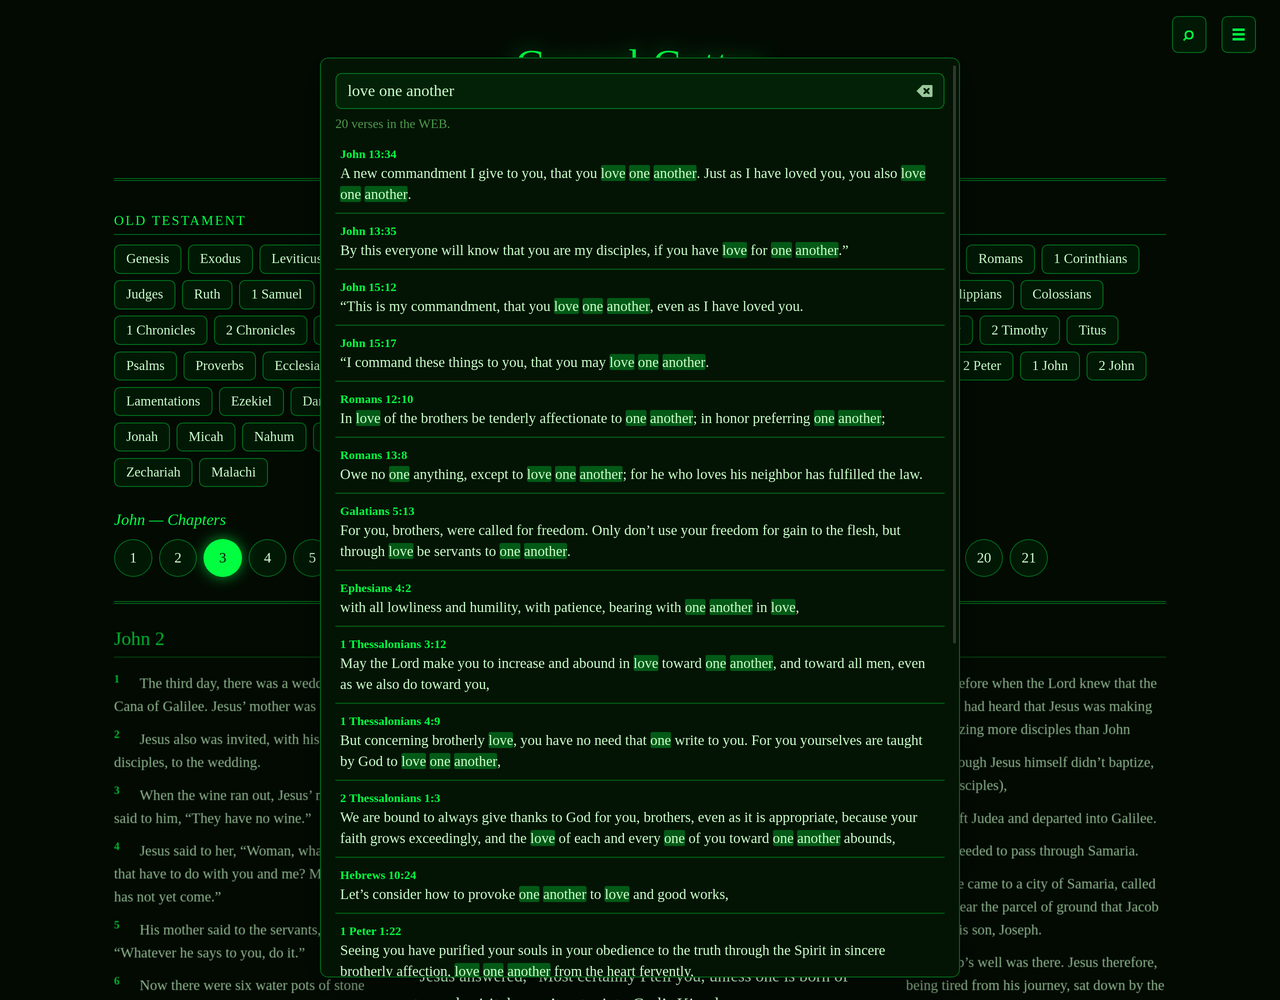
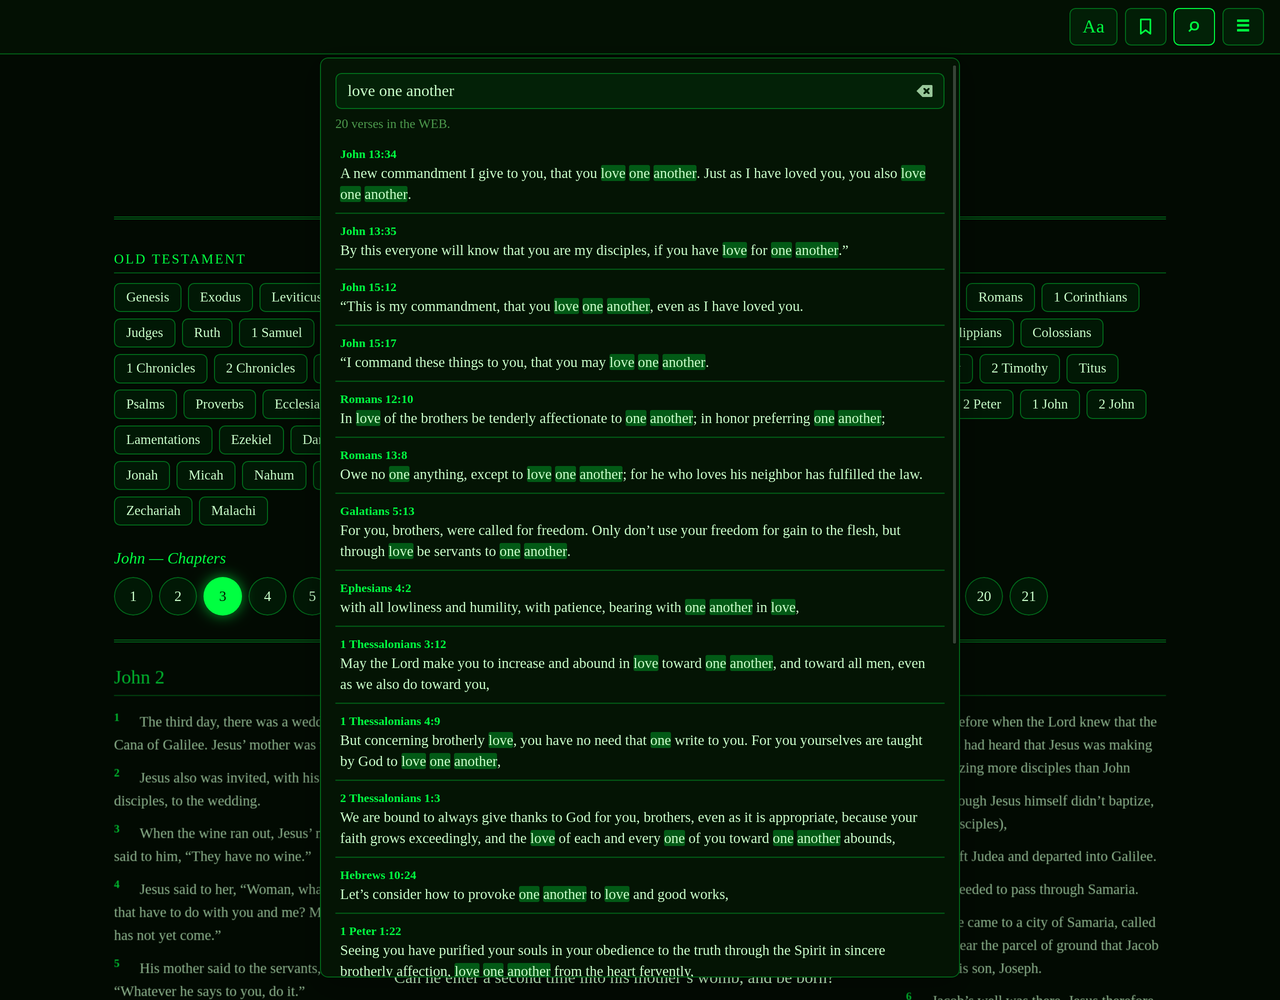
chore(release): bump version to 2.7.0 (#38)
Cargo.toml, Cargo.lock, tauri.conf.json and PKGBUILD pkgver: 2.6.0 -> 2.7.0 (pkgrel stays 1; PKGBUILD remains a draft, not AUR-published). The website shows version 2.7.0 and now says where things live in the new layout: the Highlights list and bookmarks are in the Library, themes, sizes and reading mode are under Aa, and its "Does it update itself?" answer turns the check off in About Gospel Getter from the ☰ menu, says plainly that versions 2.5 and older can't update themselves, and points Export data… to the ☰ menu; "Which version is this?" finds the version in About. The README does the same: the Library (with Ctrl+B) for bookmarks and highlights, Aa for theme, translation, text size, spacing and reading mode, the ☰ menu for Export/Import and Show welcome, About for Updates and the version, a bullet for the new layout, Ctrl+B in the keyboard table and Esc closing the open panel or popover, and in Updates that 2.6.0 updates itself to 2.7.0 while 2.5.0 and older install 2.7.0 by hand once. The site and README screenshots are recaptured from the real UI with the new top bar, at their old sizes and file names; README's bookmarks.png now shows the Library open on Bookmarks, with new alt text. capture_screenshots.py scrolls its targets relative to the top bar so nothing starts under it, and build_images.sh crops the theme tiles below it. The welcome is unchanged: nothing it says became untrue.

diff --git a/site/index.html b/site/index.html
@@ -60,7 +60,7 @@
                         <a class="button button-primary" href="#download-windows">Download for Windows</a>
                         <a class="button button-secondary" href="#download-linux">Download for Linux</a>
                     </div>
-                    <p class="hero-note">Version 2.6.0, for 64-bit Windows and Linux computers. The Windows installer isn’t code-signed yet, so Windows will probably warn you before it runs. <a href="#faq-smartscreen">What to expect</a>.</p>
+                    <p class="hero-note">Version 2.7.0, for 64-bit Windows and Linux computers. The Windows installer isn’t code-signed yet, so Windows will probably warn you before it runs. <a href="#faq-smartscreen">What to expect</a>.</p>
                     <p class="touch-only touch-note">Gospel Getter is a desktop app for <strong>Windows and Linux computers</strong>. There’s no phone, tablet or Mac version. To install it, open this page on your computer.</p>
 
                     <ul class="facts">
@@ -115,9 +115,9 @@
                         <h3>Keep what matters</h3>
                         <ul>
                             <li><strong>Copy with the reference.</strong> Click a verse, Shift-click another to select a range, then Copy. You get the text followed by its reference, such as “— 1 Corinthians 13:4–7 (WEB)”.</li>
-                            <li><strong>Bookmark passages.</strong> Bookmarked verses get a star, and your bookmarks list opens any of them again.</li>
+                            <li><strong>Bookmark passages.</strong> Bookmarked verses get a star, and the Library (the bookmark button at the top) opens any of them again.</li>
                             <li><strong>Highlight verses.</strong> Highlight the verses you’ve selected in yellow, green, blue or pink, like a highlighter pen. They show in whichever translation you’re reading.</li>
-                            <li><strong>See all your highlights.</strong> The Highlights list in Settings shows every highlighted passage in Bible order, with its color and a preview. Filter by color, or click one to go back to it.</li>
+                            <li><strong>See all your highlights.</strong> The Highlights list in the Library shows every highlighted passage in Bible order, with its color and a preview. Filter by color, or click one to go back to it.</li>
                             <li><strong>Back up or move your bookmarks.</strong> Export your bookmarks, highlights, reading position and display settings to a file, and import them on another computer. You see what a file contains before anything changes. Bible text isn’t included.</li>
                             <li><strong>Pick up where you left off.</strong> Your chapter, translation, bookmarks, highlights and settings are remembered.</li>
                         </ul>
@@ -170,7 +170,7 @@
         <section class="section" id="themes" aria-labelledby="themes-title">
             <div class="wrap">
                 <h2 id="themes-title">Make it yours</h2>
-                <p class="section-intro">Choose from six themes, four text sizes and three line spacings, or switch on reading mode to hide everything but the text. Printing is always black on white.</p>
+                <p class="section-intro">Under <strong>Aa</strong>, at the top of the app, choose from six themes, four text sizes and three line spacings, or switch on reading mode to hide everything but the text. Printing is always black on white.</p>
                 <ul class="themes">
                     <li>
                         <figure>
@@ -221,7 +221,7 @@
         <section class="section section-alt download" id="download" aria-labelledby="download-title">
             <div class="wrap">
                 <h2 id="download-title">Download Gospel Getter</h2>
-                <p class="release-line"><strong>Version 2.6.0.</strong> Free, for 64-bit Windows and Linux. <a href="https://github.com/tossbaws/gospel-getter/releases/latest">What’s new</a></p>
+                <p class="release-line"><strong>Version 2.7.0.</strong> Free, for 64-bit Windows and Linux. <a href="https://github.com/tossbaws/gospel-getter/releases/latest">What’s new</a></p>
                 <p class="touch-only touch-note">You seem to be on a phone or tablet. Gospel Getter runs on <strong>Windows and Linux computers</strong> only, so open this page on your computer to install it.</p>
 
                 <div class="platforms">
@@ -302,18 +302,18 @@
                 <details id="faq-update">
                     <summary>Does it update itself? Will I lose my bookmarks?</summary>
                     <div>
-                        <p>It can, and it always asks first. When Gospel Getter starts, it checks whether there’s a new version. If there is, it tells you, and nothing is downloaded or installed until you choose <strong>Update and restart</strong>. You can choose <strong>Later</strong> instead, or turn the check off in Settings, under Updates. <strong>Check now</strong> there checks whenever you like.</p>
+                        <p>It can, and it always asks first. When Gospel Getter starts, it checks whether there’s a new version. If there is, it tells you, and nothing is downloaded or installed until you choose <strong>Update and restart</strong>. You can choose <strong>Later</strong> instead, or turn the check off in <strong>About Gospel Getter</strong>, from the ☰ menu. <strong>Check now</strong> there checks whenever you like.</p>
                         <p>The Windows installers (setup.exe or MSI), the AppImage and the .deb from this page update themselves. If you built Gospel Getter yourself or installed it another way, the app offers a link to the download page instead.</p>
-                        <p>If your version has no Updates section in Settings, it can’t update itself. Download the new version from this page and install it over the old one, just this once.</p>
+                        <p>Versions 2.5 and older can’t update themselves. If you have one of those, download the new version from this page and install it over the old one, just this once.</p>
                         <p>Checking downloads a small file from GitHub that names the latest version, so GitHub sees your IP address, as with any download. Nothing about your reading or your data is sent.</p>
-                        <p>Updating keeps your bookmarks, highlights, reading position and settings. To be safe, or to move to another computer, use <strong>Export data…</strong> in Settings first.</p>
+                        <p>Updating keeps your bookmarks, highlights, reading position and settings. To be safe, or to move to another computer, use <strong>Export data…</strong> in the ☰ menu first.</p>
                     </div>
                 </details>
 
                 <details id="faq-version">
                     <summary>Which version is this?</summary>
                     <div>
-                        <p>The download buttons on this page always get the newest release. To see which version you have installed, open Settings in the app: the version is shown at the bottom. Older versions are on the <a href="https://github.com/tossbaws/gospel-getter/releases">releases page</a>.</p>
+                        <p>The download buttons on this page always get the newest release. To see which version you have installed, open the ☰ menu in the app and choose <strong>About Gospel Getter</strong>: the version is shown under the name. Older versions are on the <a href="https://github.com/tossbaws/gospel-getter/releases">releases page</a>.</p>
                     </div>
                 </details>
 

diff --git a/tools/site/capture_screenshots.py b/tools/site/capture_screenshots.py
@@ -231,16 +231,19 @@ if (welcome && !welcome.hidden) throw new Error('the welcome is on screen');
 if (document.querySelector('[data-highlight]')) throw new Error('a highlight is on screen');
 """
 
-# Scroll so `el` sits `top` CSS pixels below the top of the window.
-SCROLL_TO = "window.scrollTo(0, window.scrollY + %s.getBoundingClientRect().top - %d);"
+# Scroll so `el` sits `top` CSS pixels below the app's top bar, which the
+# page scrolls beneath (so nothing a scene shows starts hidden under it).
+SCROLL_TO = ("window.scrollTo(0, window.scrollY + %s.getBoundingClientRect().top"
+             " - document.getElementById('top-bar').getBoundingClientRect().bottom - %d);")
 
 def feature_scenes(theme):
     """The site's feature screenshots, in `theme`."""
     look = {**SEEN, "gospel-getter-theme": theme}
     return [
         # Reading in context: the chapter with its neighbours on either side.
+        # The headings sit where build_images.sh's hero and og crops expect.
         dict(name="reading", size=(1280, 800), prefs=look, position=("John", 3, "web"),
-             steps=SCROLL_TO % ("document.getElementById('chapter-list')", 24)),
+             steps=SCROLL_TO % ("document.querySelector('.chapter-heading')", 86)),
         # Searching the words of the text.
         dict(name="search", size=(1280, 800), prefs=look, position=("John", 15, "web"),
              steps="""

diff --git a/README.md b/README.md
@@ -29,36 +29,42 @@ bookmark passages. No account and no network needed.
   to select a range, then **Copy** or Ctrl+C. You get the text exactly as
   stored, followed by e.g. `— John 3:16–18 (WEB)`.
 - **Bookmarks.** Save a verse or range with **★ Bookmark**. Bookmarked
-  verses get a ★, and the list in settings reopens any of them in
-  whichever translation you're reading.
+  verses get a ★, and the Bookmarks list in the Library (the bookmark
+  button at the top, or Ctrl+B) reopens any of them in whichever
+  translation you're reading.
 - **Highlights.** Select a verse or range and pick yellow, green, blue or
   pink to highlight it, like a highlighter pen; **Remove highlight** clears
   it. Each theme has its own shades, highlights show in both columns of
   compare mode, and they aren't printed.
-- **My highlights list.** The Highlights list in settings shows every
+- **My highlights list.** The Highlights list in the Library shows every
   highlighted passage in Bible order, with its color, reference and a
   preview in the current translation. Neighboring verses highlighted in
   the same color are one entry (`John 3:16–18`). Filter by color, click a
   passage to open it, or remove its highlight with ×.
-- **Compare translations.** Press `C` to see KJV and WEB side by side, one
-  row per verse number. Where only one translation numbers a verse, the
-  other column says so instead of shifting anything.
+- **Compare translations.** Press `C` (or **Compare** under **Aa**) to see
+  KJV and WEB side by side, one row per verse number. Where only one
+  translation numbers a verse, the other column says so instead of
+  shifting anything.
 - **Cross-references.** Click a verse to see related passages, and click a
   citation to read it in place.
 - **Comfortable reading.** Six themes (Vaporwave, Classic Dark, Classic
   Light, Matrix, Beast Slayer, Hot Pink), four text sizes, three line
-  spacings, and a distraction-free reading mode. Printing is always black
-  on white.
+  spacings, and a distraction-free reading mode, all under **Aa** with the
+  translation. Printing is always black on white.
+- **Everything in reach, out of the way.** A slim bar at the top holds
+  **Aa** (text and display), the **Library** (bookmarks and highlights),
+  search and the **☰** menu (export, import, the welcome and **About
+  Gospel Getter**). Only one opens at a time, and Esc closes it.
 - **Picks up where you left off.** Your chapter, translation, bookmarks,
   highlights and display settings are remembered between sessions.
-- **Back up or move your data.** In Settings, **Export data...** saves your
+- **Back up or move your data.** In the ☰ menu, **Export data…** saves your
   bookmarks, highlights, reading position and display settings to a JSON
-  file, and **Import data...** shows what a file contains before adding it
+  file, and **Import data…** shows what a file contains before adding it
   (or, if you choose, replacing your bookmarks and highlights). Only that
   personal data is exported, not Bible text or the app's database.
 - **A short welcome.** On a new install, a four-page overview of the
   features opens the first time. **Skip** (or Esc) closes it, and
-  **Show welcome** in Settings opens it again. Upgrading doesn't show it.
+  **Show welcome** in the ☰ menu opens it again. Upgrading doesn't show it.
 - **Updates from inside the app, always asked first.** When it starts,
   Gospel Getter checks GitHub Releases for a newer version and, if there
   is one, shows a banner with the release notes, **Update and restart**
@@ -71,7 +77,7 @@ bookmark passages. No account and no network needed.
 ## A quick tour
 
 All five screenshots in this README, including the one at the top, use the
-Matrix theme. The other five themes are in Settings.
+Matrix theme. The other five themes are under **Aa**.
 
 **Search the text, or jump straight to a reference.** Matching words are
 highlighted, and clicking a result opens and selects that verse.
@@ -90,9 +96,9 @@ shows exactly what will be copied.
 ![John 3:16 to 18 selected in the WEB in the Matrix theme, with Copy and Bookmark buttons and the citation "John 3:16–18 (WEB)"](screenshots/copy-verse-range.png)
 
 **Bookmark passages and come back to them.** Bookmarked verses are starred
-in the text, and the list in settings shows each one with a preview.
+in the text, and the Library (Ctrl+B) lists each one with a preview.
 
-![Psalm 23 with verses 1 to 4 starred, and the settings menu open with Theme set to Matrix and a Bookmarks list of Psalms 23:1–4, Romans 8:28 and John 3:16](screenshots/bookmarks.png)
+![Psalm 23 with verses 1 to 4 starred in the Matrix theme, and the Library panel open on its Bookmarks tab listing Psalms 23:1–4, Romans 8:28 and John 3:16](screenshots/bookmarks.png)
 
 ## Keyboard
 
@@ -102,8 +108,9 @@ in the text, and the list in settings shows each one with a preview.
 | `/` or Ctrl+K | Open search. Enter goes to a reference; ↓ / ↑ move through results |
 | Ctrl+C | Copy the selected verses with their reference. If you've highlighted text yourself, that's copied instead, as usual |
 | `C` | Compare translations on/off |
+| Ctrl+B | Open or close the Library (bookmarks and highlights) |
 | Shift-click | Extend the selection to a range within the chapter |
-| Esc | Close search or settings, then clear the selection, then leave reading mode |
+| Esc | Close search or the open panel or popover, then clear the selection, then leave reading mode |
 
 ## Installing
 
@@ -157,8 +164,8 @@ page** button instead, which opens the releases page in your browser.
 
 **The check, and how to turn it off.** The check runs once each time the
 app starts. To stop it, turn off **Check for updates when Gospel Getter
-starts** in the Updates section of Settings; **Check now** still checks
-when you ask. It's a setting for this computer and isn't exported. If the
+starts** in **About Gospel Getter**, from the ☰ menu; **Check now** there
+still checks when you ask. About also shows which version you have. It's a setting for this computer and isn't exported. If the
 check fails, for example because you're offline, the app says nothing and
 works as usual. **Later** hides the notice until the next start.
 
@@ -169,8 +176,12 @@ without you choosing **Update and restart**.
 latest version, so GitHub sees your IP address, as with any download.
 Nothing about your reading or your data is sent.
 
+**Coming from 2.6.0?** It updates itself to 2.7.0: it offers the update
+when it starts (or from **Check now**, in the Updates section of its
+Settings), if it's one of the installs above that update themselves.
+
 **Coming from 2.5.0 or older?** Those versions can't update themselves.
-Install 2.6.0 by hand once, from the
+Install 2.7.0 by hand once, from the
 [latest release](https://github.com/tossbaws/gospel-getter/releases/latest),
 over your current version; updates after that can come from inside the app.
 Upgrading keeps your data.
